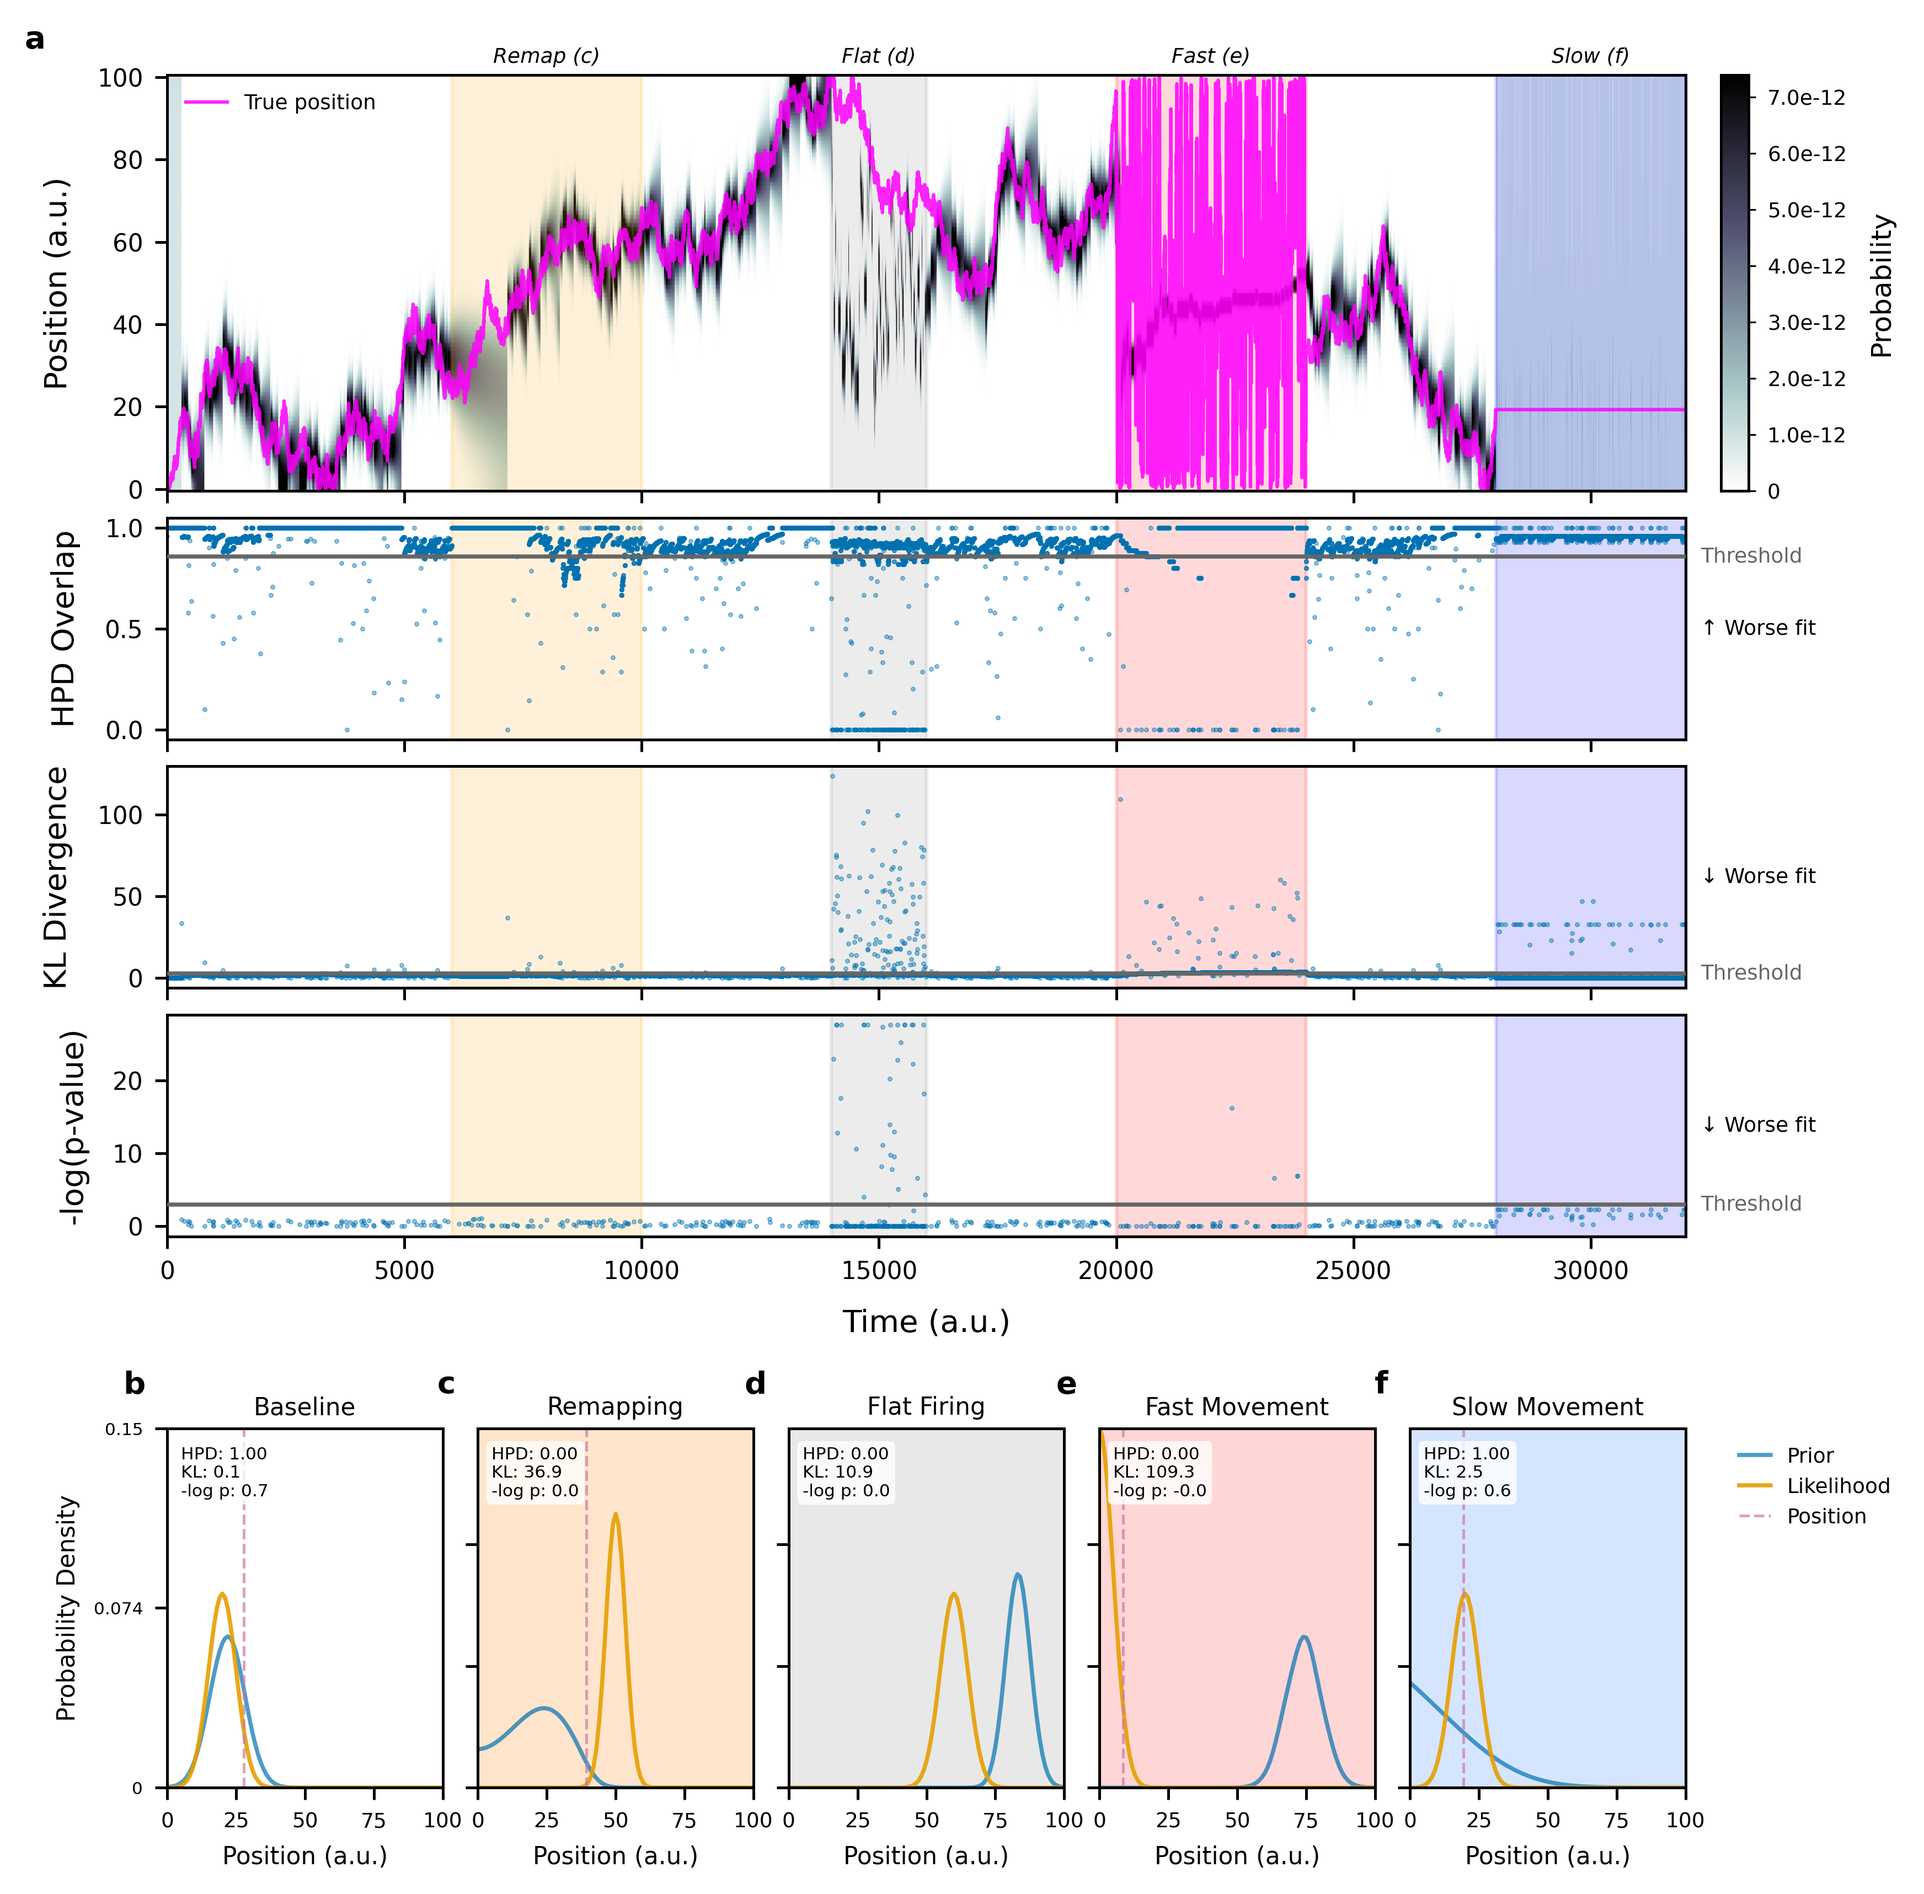
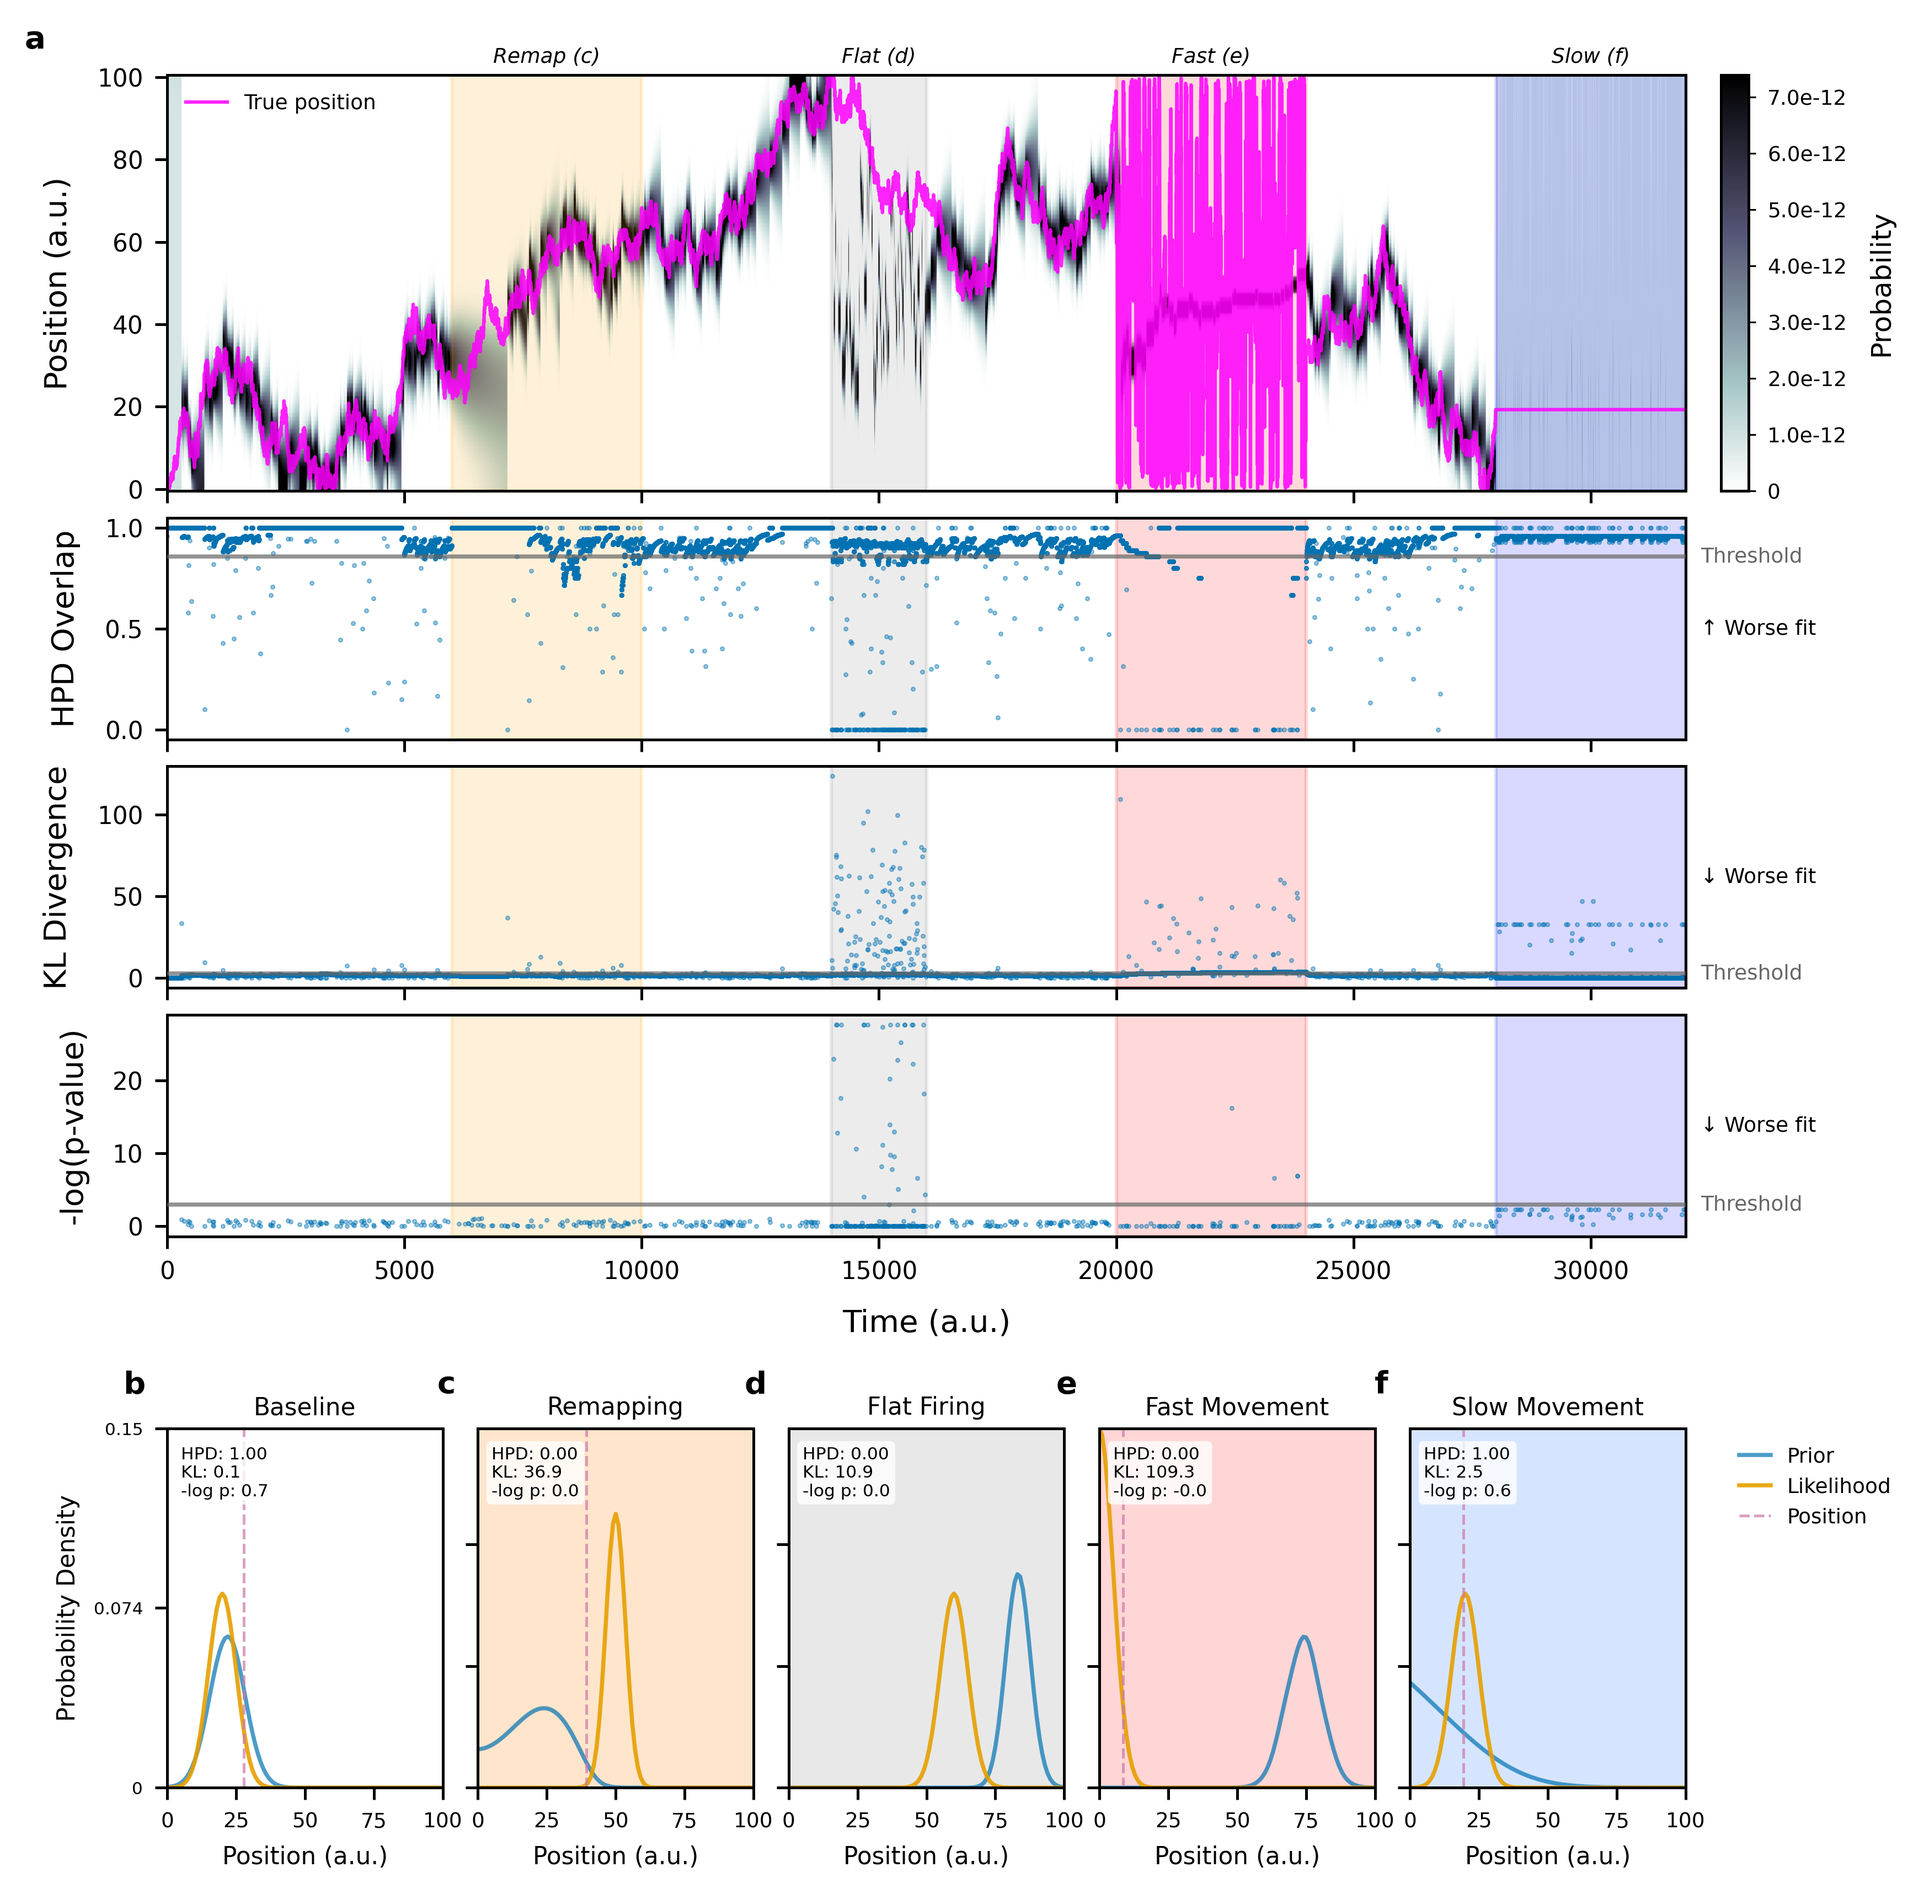
Add alpha to diagnostic plot reference lines
Set alpha=0.7 for reference lines in HPDO, KL Divergence, and spike probability plots in plot_combined_diagnostics for improved visual clarity. Updated related diagnostic output files.

diff --git a/scripts/sim.py b/scripts/sim.py
@@ -902,7 +902,7 @@ def plot_combined_diagnostics(
 
     # HPDO
     ax_hpdo.plot(metrics["HPDO"], ".", markersize=0.8, alpha=0.6, color=wong[5], rasterized=True)
-    ax_hpdo.axhline(th.HPDO, color="#666666", linewidth=1.2, zorder=10)
+    ax_hpdo.axhline(th.HPDO, color="#666666", linewidth=1.2, alpha=0.7, zorder=10)
     ax_hpdo.set_xlim(0, n_time)
     ax_hpdo.set_ylabel("HPD Overlap", fontsize=9, labelpad=7)
     ax_hpdo.tick_params(labelsize=7, labelbottom=False)
@@ -923,7 +923,7 @@ def plot_combined_diagnostics(
 
     # KL Divergence
     ax_kl.plot(metrics["KL"], ".", markersize=0.8, alpha=0.6, color=wong[5], rasterized=True)
-    ax_kl.axhline(th.KL, color="#666666", linewidth=1.2, zorder=10)
+    ax_kl.axhline(th.KL, color="#666666", linewidth=1.2, alpha=0.7, zorder=10)
     ax_kl.set_xlim(0, n_time)
     ax_kl.set_ylabel("KL Divergence", fontsize=9, labelpad=7)
     ax_kl.tick_params(labelsize=7, labelbottom=False)
@@ -959,6 +959,7 @@ def plot_combined_diagnostics(
         spike_prob_thresh_transformed,
         color="#666666",
         linewidth=1.2,
+        alpha=0.7,
         zorder=10,
     )
     ax_spike.set_xlim(0, n_time)
